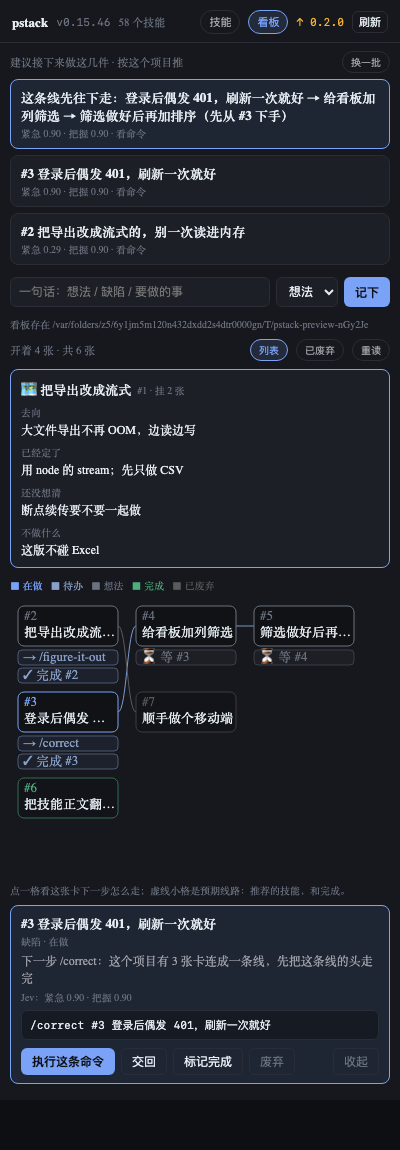
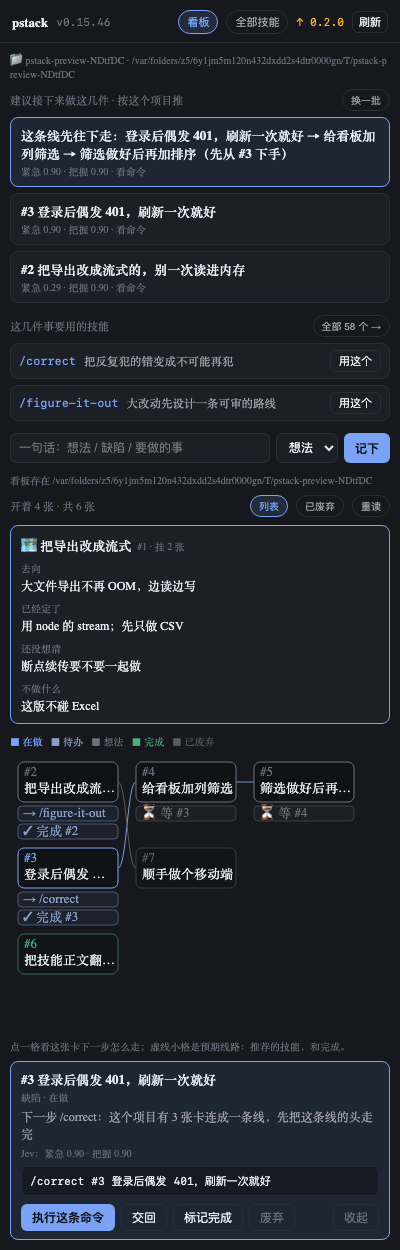
默认落在看板：技能清单退成二级入口
- 面板默认打开看板，挂载即读，不用先点一下
- 看板页加「这几件事要用的技能」：只列建议里点得到的，带中文一句话与「用这个」
- 标题栏放不下技能总数，去掉（各组自带数字）
- 预览新增 list 模式，README 首屏改为看板截图
- 测试 51 → 52：一帧都不点就该在看板上

diff --git a/src/client.js b/src/client.js
@@ -44,7 +44,7 @@ window.__ModuleLoader__.load({
       zhOnly: false, // 有中文正文时默认显示中文，点一下切回原文
       sugOpen: '', // 展开了哪条建议（看 Jev 分数和命令）
       node: null, // 流程图里下钻的卡号
-      view: 'skills', // skills | board
+      view: 'board', // board | skills —— 默认看板：进来先看到「这个项目要干什么」，而不是 58 个技能名
       sid: '', // 会话号：看板要用它换出这个会话的项目目录
       board: null,
       sug: null, // 三层决策给出的 3~5 条建议
@@ -481,11 +481,42 @@ window.__ModuleLoader__.load({
         ])
         : null
 
+      // 看板页自带一份技能清单：只列上面建议里点得到的几个，剩下的收进「全部技能」
+      const cat = store.catalog || { skills: [] }
+      const bySkill = new Map((cat.skills || []).map((sk) => [sk.name, sk]))
+      const picked = [...new Set(((store.sug && store.sug.items) || []).map((it) => it.skill).filter(Boolean))].slice(0, 6)
+      const skillList = picked.length
+        ? h('div', { key: 'skills', style: { marginBottom: 12 } }, [
+          h('div', { key: 'h', style: { display: 'flex', alignItems: 'center', gap: 6, marginBottom: 6 } }, [
+            h('span', { key: 't', style: { ...s.faint, fontSize: 11 } }, '这几件事要用的技能'),
+            h('div', { key: 'sp', style: { flex: 1 } }),
+            h('button', {
+              key: 'all',
+              style: { ...s.chip(false), fontSize: 10 },
+              onClick: () => set({ view: 'skills' }),
+            }, `全部 ${(cat.skills || []).length || ''} 个 →`),
+          ]),
+          ...picked.map((name) => {
+            const sk = bySkill.get(name)
+            return h('div', {
+              key: name,
+              style: { ...s.card(false), cursor: 'default', display: 'flex', gap: 8, alignItems: 'center', padding: '6px 8px' },
+            }, [
+              h('span', { key: 'n', style: { fontFamily: C.mono, fontSize: 11.5, color: C.accent, flex: 'none' } }, '/' + name),
+              h('span', { key: 'z', style: { color: C.dim, fontSize: 11.5, flex: 1, minWidth: 0, wordBreak: 'break-word' } },
+                (sk && (sk.zh || sk.description)) || ''),
+              h('button', { key: 'u', style: { ...s.btn(), padding: '2px 8px', fontSize: 11, flex: 'none' }, onClick: () => inject('/' + name + ' ') }, '用这个'),
+            ])
+          }),
+        ])
+        : null
+
       return h('div', { style: s.body }, [
         h('div', { key: 'proj', style: { ...s.faint, fontSize: 10, marginBottom: 8, wordBreak: 'break-all' } },
           `📁 ${proj ? proj.name : ''} · ${b.root || b.cwd}${proj && proj.rel ? `（当前是它的子目录：${proj.rel}）` : ''}`),
         initCard,
         h(Suggest, { key: 'sug' }),
+        skillList,
 
         h('div', { key: 'add', style: { display: 'flex', gap: 6, marginBottom: 10, flexWrap: 'wrap' } }, [
           h('input', {
@@ -731,6 +762,10 @@ window.__ModuleLoader__.load({
       React.useEffect(() => {
         if (props && props.sessionId && props.sessionId !== store.sid) set({ sid: props.sessionId })
       }, [props && props.sessionId])
+      // 默认就站在看板上，所以不用等谁点一下才去读
+      React.useEffect(() => {
+        if (store.view === 'board' && !store.board) loadBoard()
+      }, [store.view, store.sid])
       const toBoard = () => {
         set({ view: 'board' })
         if (!store.board) loadBoard()
@@ -740,10 +775,9 @@ window.__ModuleLoader__.load({
       const head = h('div', { key: 'head', style: s.head }, [
         h('span', { key: 't', style: { fontWeight: 650 } }, 'pstack'),
         cat ? h('span', { key: 'v', style: { ...s.faint, fontFamily: C.mono } }, 'v' + cat.version) : null,
-        cat ? h('span', { key: 'n', style: s.faint }, `${cat.skills.length} 个技能`) : null,
         h('div', { key: 'sp', style: { flex: 1 } }),
-        h('button', { key: 'vs', style: { ...s.chip(store.view === 'skills'), fontSize: 11 }, onClick: () => set({ view: 'skills' }) }, '技能'),
         h('button', { key: 'vb', style: { ...s.chip(store.view === 'board'), fontSize: 11 }, onClick: toBoard }, '看板'),
+        h('button', { key: 'vs', style: { ...s.chip(store.view === 'skills'), fontSize: 11 }, onClick: () => set({ view: 'skills' }) }, '全部技能'),
         store.upd && !store.upd.error
           ? h('span', {
             key: 'pv',
@@ -751,11 +785,11 @@ window.__ModuleLoader__.load({
               ? `插件有新版本 ${store.upd.latest}（当前 ${store.upd.current}）`
               : `插件 ${store.upd.current || ''} 是最新的`,
             style: {
-              ...s.faint, fontFamily: C.mono, fontSize: 11, cursor: 'pointer',
+              ...s.faint, fontFamily: C.mono, fontSize: 11, cursor: 'pointer', whiteSpace: 'nowrap',
               color: store.upd.hasUpdate ? '#f0b132' : undefined,
             },
             onClick: () => checkUpd(true),
-          }, store.upd.hasUpdate ? `↑ ${store.upd.latest}` : `插件 ${store.upd.current || '?'}`)
+          }, store.upd.hasUpdate ? `↑ ${store.upd.latest}` : `${store.upd.current || '?'}`)
           : null,
         cat ? h('button', { key: 'r', style: { ...s.btn(), padding: '2px 6px', fontSize: 11 }, onClick: () => { load(true); if (store.board) loadBoard() }, title: '重新读一遍磁盘' }, '刷新') : null,
       ])

diff --git a/README.md b/README.md
@@ -16,7 +16,11 @@
 
 ## 截图
 
-右栏面板，三个视图。下面这些是用 `npm run preview` 把真面板渲染成 HTML 再截的，不是手画的示意图。
+右栏面板。下面这些是用 `npm run preview` 把真面板渲染成 HTML 再截的，不是手画的示意图。
+
+**打开就是看板** —— 不是技能清单。第一屏先回答「这个项目现在该干什么」：3~5 条带现成提示词的建议，加上这几件事要用的技能；技能清单是第二级入口（右上角「全部技能」）。
+
+![首屏](docs/preview-home.png)
 
 **技能列表** —— 58 个技能按六组排，带中文一句话；标题栏会自己问 npm 有没有新版本。
 
@@ -213,11 +217,10 @@ dsh 启动时读 `dsh.bundle.patch`，把这三个插件并进内存里的 profi
 
 ### 1. 右栏「pstack」tab
 
-两个视图：
+两个视图，**默认落在看板上**。理由很直接：58 个技能名摆在那里，人第一眼不知道该点哪个；而看板开口就是「这个项目现在该干什么」，技能是从任务里被带出来的，不是自己去找的。
 
-**技能** —— 58 个技能按六组排（workflow 34 / core 10 / architecture 6 / verification 5 / delegation 2 / meta 1），带中文一句话、参数提示、同装依赖。搜「验证」「测试」「文档」都能搜到。点开看中文正文（有对照原文的开关），点「放进输入框」把 `/技能名` 塞进输入框。
+**看板（默认）** —— 一个项目一块板，存在 `<项目>/.pstack/board/`，一张卡一个 markdown 文件。
 
-**看板** —— 一个项目一块板，存在 `<项目>/.pstack/board/`，一张卡一个 markdown 文件。
 
 ```
 .pstack/board/
@@ -227,7 +230,9 @@ dsh 启动时读 `dsh.bundle.patch`，把这三个插件并进内存里的 profi
 └── 4-给看板加列筛选.md
 ```
 
-看板顶部是**建议**（3~5 条，见下），中间是加卡输入框，下面是分组：`可开工 / 在做 / 完成 / 被挡着`。每张卡上能看到建议用的技能、紧急度与把握，按钮是「我来做 / 完成 / 废弃」。
+看板顶部是**建议**（3~5 条，见下），紧跟着是「这几件事要用的技能」——只列建议里点得到的几个，带中文一句话和「用这个」；想看全部 58 个再点右上角。中间是加卡输入框，下面是分组：`可开工 / 在做 / 完成 / 被挡着`。每张卡上能看到建议用的技能、紧急度与把握，按钮是「我来做 / 完成 / 废弃」。
+
+**全部技能** —— 58 个技能按六组排（workflow 34 / core 10 / architecture 6 / verification 5 / delegation 2 / meta 1），带中文一句话、参数提示、同装依赖。搜「验证」「测试」「文档」都能搜到。点开看中文正文（有对照原文的开关），点「放进输入框」把 `/技能名` 塞进输入框。
 
 ### 2. 斜杠菜单
 
@@ -357,7 +362,7 @@ docs/          parallel-tasks.md + 面板截图
 ## 开发
 
 ```bash
-npm test           # 51 条：目录解析、路由信封、工具、看板、初始化、项目锚定、依赖图、建议、版本比较、客户端渲染
+npm test           # 52 条：目录解析、路由信封、工具、看板、初始化、项目锚定、依赖图、建议、版本比较、客户端渲染
 npm run dev        # 起一个临时宿主（默认 web profile :5599），改 src/ 自动重启
 npm run preview    # 用假 React 把面板渲染成 HTML，再用 Chrome 截图，不用起宿主
 npm run sync       # 把 repo/skills 推到 ~/.dsh/skills（--dry 只看差异）
